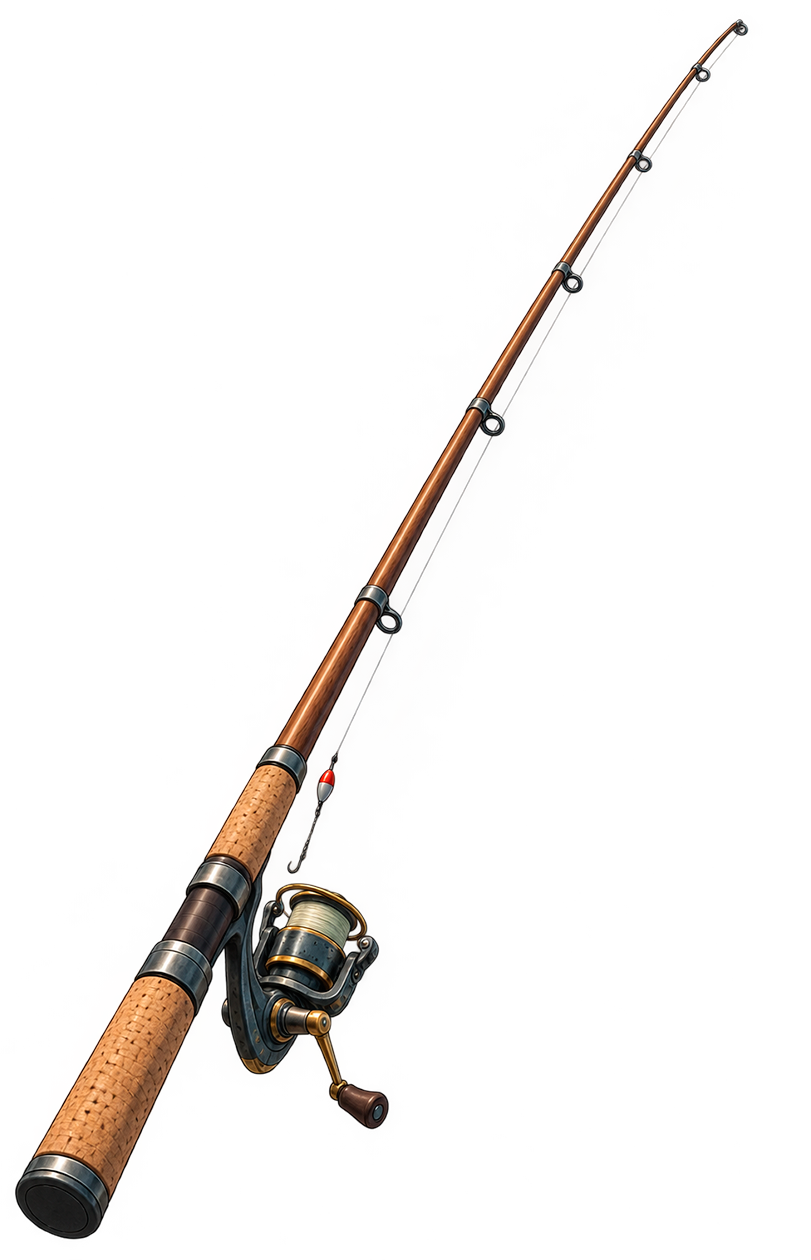
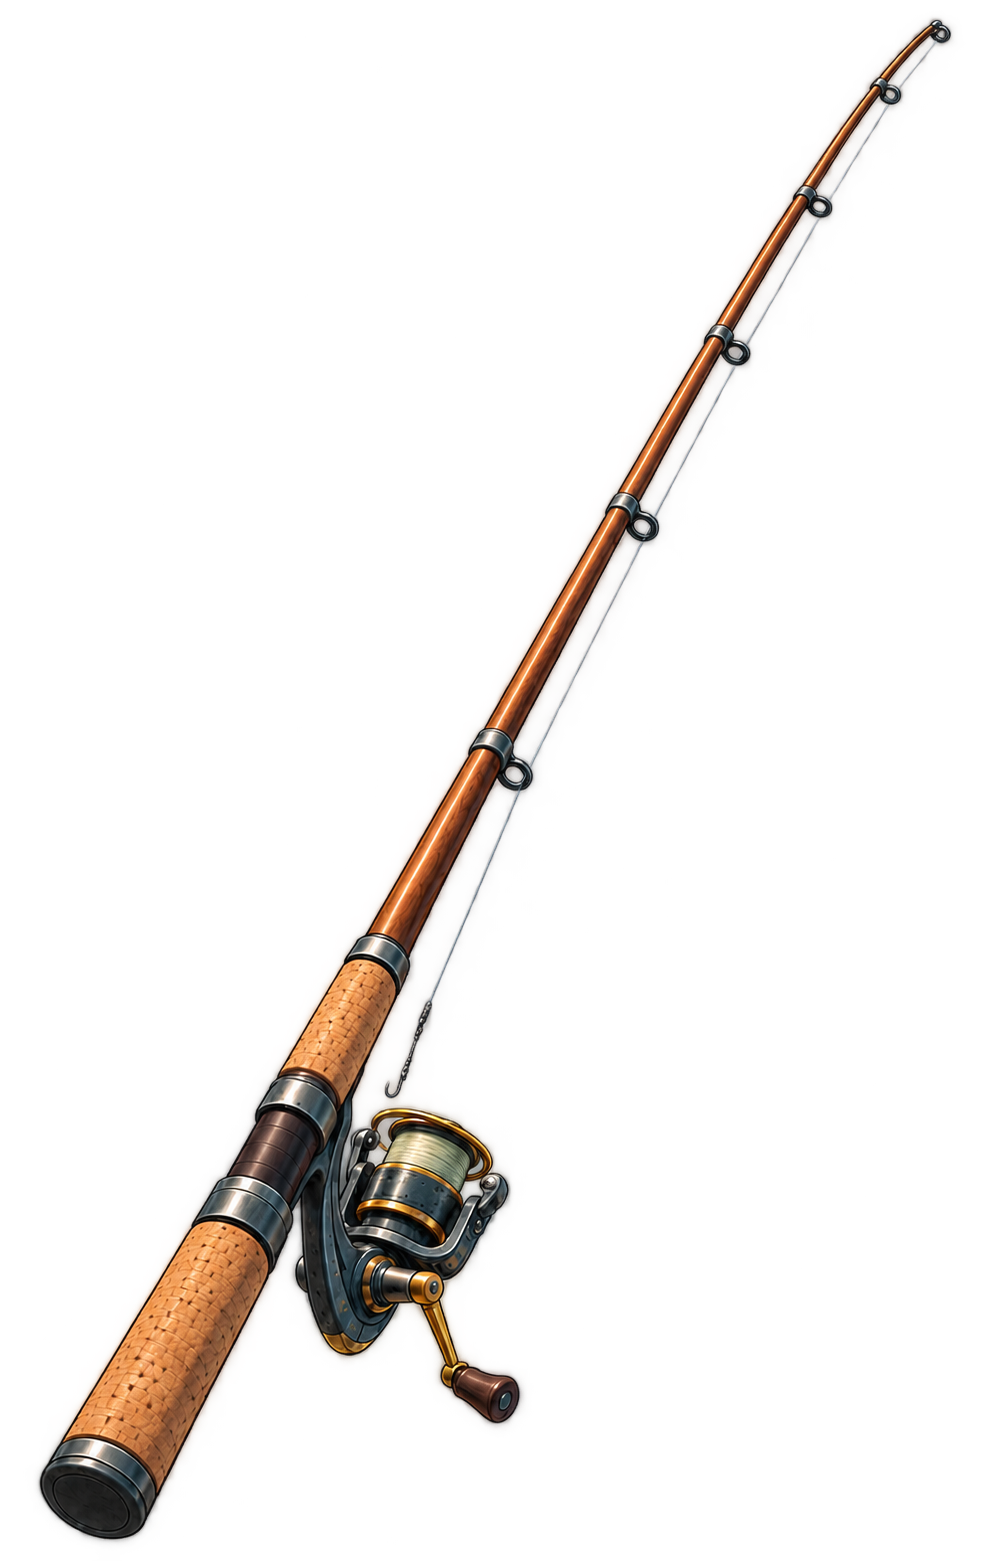
Change fishing images and styles

Changed region(s): [[0.0, 0.0, 0.9556, 0.9905]]

diff --git a/src/features/fishing/ui/FishingGame.css b/src/features/fishing/ui/FishingGame.css
@@ -49,6 +49,10 @@
   text-shadow: 3px 3px 0 #68452d;
   pointer-events: none;
 }
+.fishing-rod-image {
+  width: 811px;
+  height: 1260px;
+}
 .fishing-title span {
   font-size: 0.78rem;
   font-weight: 900;
@@ -1143,7 +1147,10 @@
   45% {
     transform: rotate(-12deg) translateY(-5px);
   }
-  100% {
+  80% {
     transform: rotate(3deg) translateY(0);
+  }
+  100% {
+    transform: rotate(0deg) translateY(0);
   }
 }

diff --git a/src/features/fishing/ui/FishingGame.tsx b/src/features/fishing/ui/FishingGame.tsx
@@ -317,7 +317,7 @@ export function FishingGame({ onClose }: Props) {
     rarityRef.current = pickRarity(distance)
     setCastDistance(distance)
     setBobberX(58)
-    setBobberTop(distance === 'near' ? 65 : distance === 'mid' ? 47 : 39)
+    setBobberTop(distance === 'near' ? 65 : distance === 'mid' ? 50 : 42)
     setPhase('casting')
     window.setTimeout(() => {
       if (phaseRef.current !== 'casting') return
